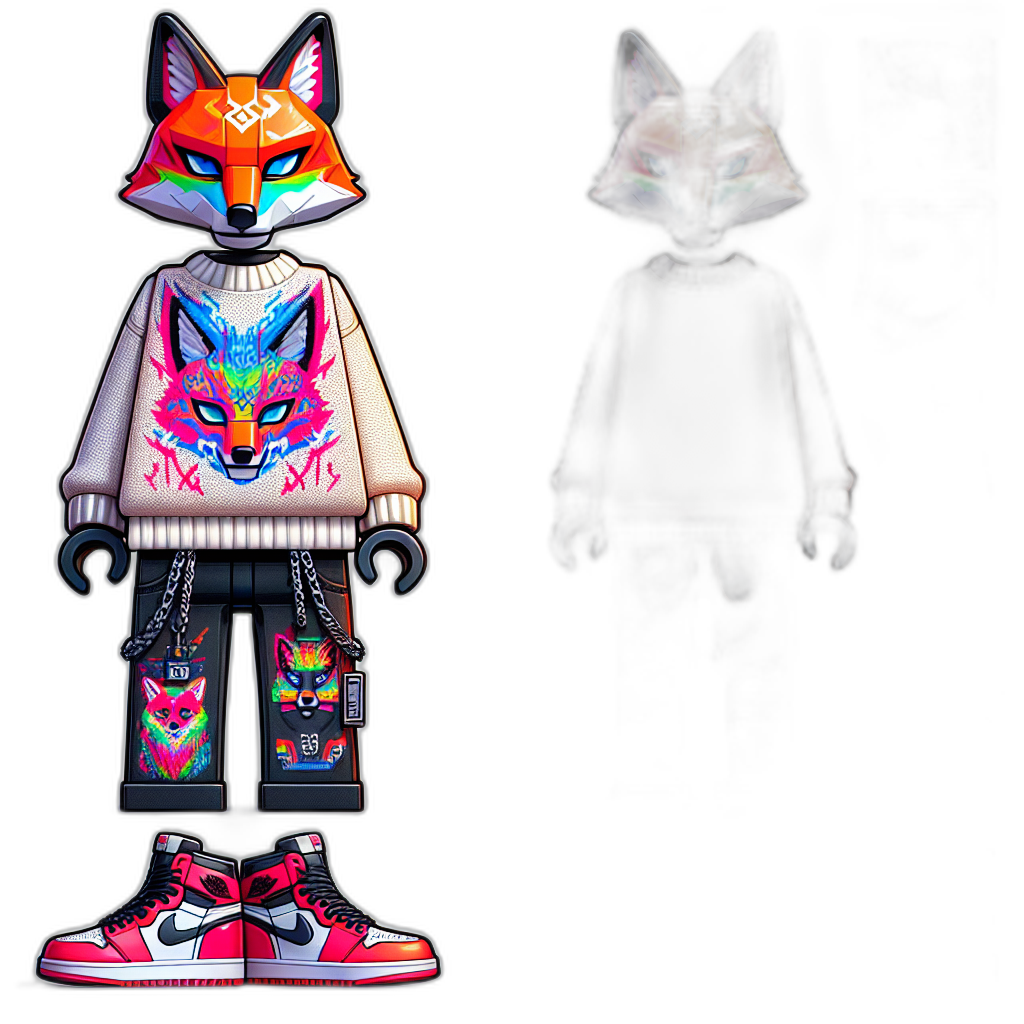
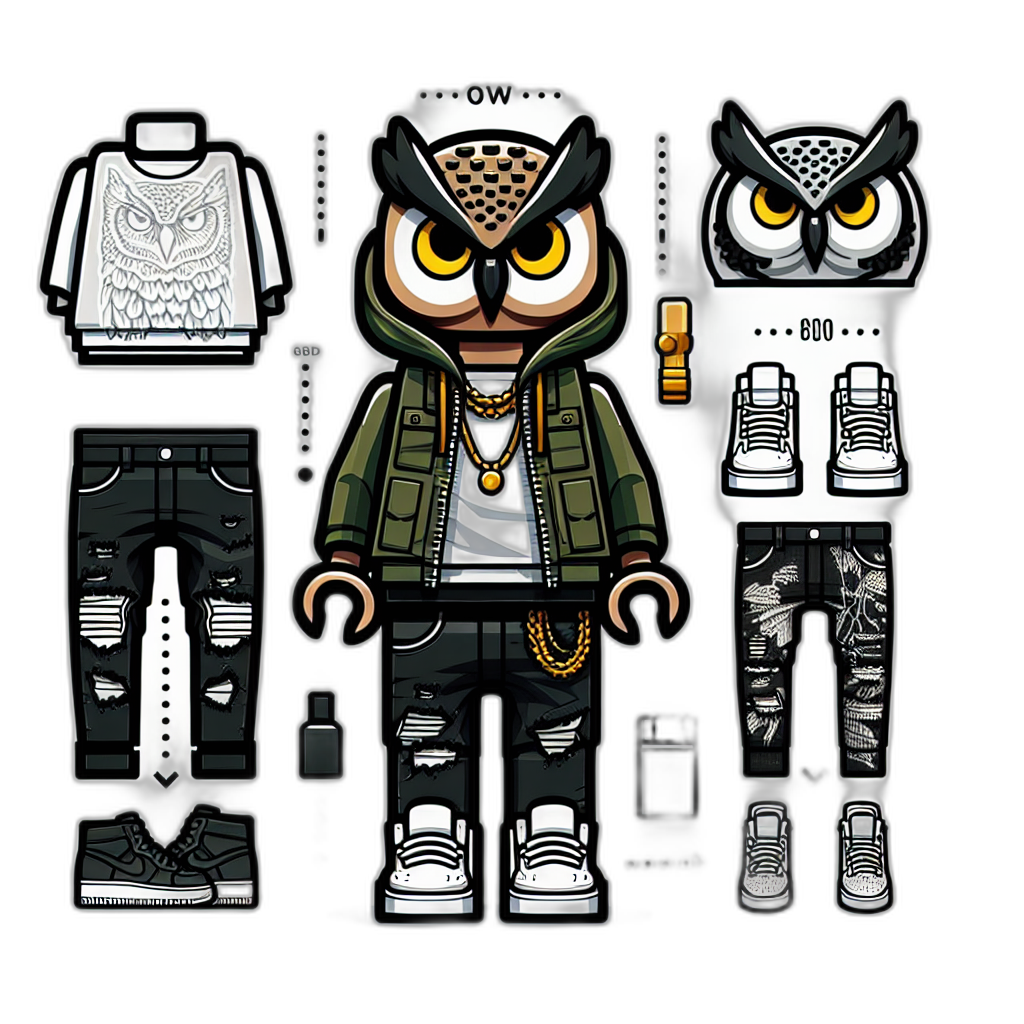
prompt edits

diff --git a/controllers/openaiController.js b/controllers/openaiController.js
@@ -10,6 +10,8 @@ const openai = new OpenAI({
 const generateCreativePrompt = async (req) => { // Removed res, as we are returning the value instead of sending response
     console.log("Received body:", req.body);
     const genreObjects = req.body.genres;
+    const artistObjects = req.body.artists;
+    console.log(genreObjects);
 
     if (!Array.isArray(genreObjects)) {
         console.error("Genres is undefined or not an array");
@@ -17,23 +19,27 @@ const generateCreativePrompt = async (req) => { // Removed res, as we are return
     }
 
     const genres = genreObjects.map(g => g.genre);
-    let prompt = `Optimize your answer for feeding into dall-e-3. Keep your response under 75 words. Using ${genres.join(", ")} and information from latest internet fashion trends (search for these) and your knowledge of good Dall-E prompts, fill out the following template:
+    const artists = artistObjects.map(a => a.name);
+    //console.log(genres);
+    let prompt = `Optimize your answer for feeding into dall-e-3. Keep your response under 75 words. Using ${genres.join(", ")} and ${artists.join(", ")} and information from latest internet fashion trends (search for these) and your knowledge of good Dall-E prompts, fill out the following template. If you are to mention an artist, use a "-like" (e.g. Drake-like hoodie):
 
     Head: the head must be that of an animal
-    Top: can be any type of shirt, jacket, or sweater
-    Bottom: can be any type of shorts, jeans, leggings, skirt, etc.
-    Shoes: can be any type of shoe
-    Socks: can be any type of sock
+    Top: can be any type of shirt, jacket, or sweater, inspired by artist or genre
+    Bottom: can be any type of shorts, jeans, leggings, skirt, etc., inspired only by genre
+    Shoes: can be any type of shoe, inspired by artist
+    Accessory: sunglasses, chain, hat, etc. 
 
-    Ensure that the clothing and style reflect the vibrant and diverse nature of the genres.
+    Ensure that the clothing and style reflect the vibrant and diverse nature of the genres,
+    and that each item is a clear reflection of a genre, and their styles don't overlap.
     
     Example: 
     Head: lion (try to gather from their taste what this might be)
     Top: black metallica band tee (because they listen to metallica the most)
     Bottom: black leather pants (they love rock)
     Shoes: white converse
-    Socks: white socks
+    Accessory: Anita Max Wynn hat (because they listen to Drake)
     
+    If you are going to mention a specific artist inspired design, describe the design instead of writing the artist's name and "-like" (for example, "Yeezy sweatshirt with GAP on it" instead of "Kanye-like hoodie")
     Remember to be specific but simple like above. You can mention specific artists, but not more than 2. Mention artists earlier in your answer for each category.`;
 
     try {
@@ -67,7 +73,7 @@ const generateRhythmoji = async (creativeDescription) => {
     try {
         const imageResponse = await openai.images.generate({
             model: 'dall-e-3',
-            prompt: `Your role is to design a single lego character standing in a straight-on orientation using "${creativeDescription}". Focus on the artists and brands mentioned, make them evident. White background. Ensure good design.`, 
+            prompt: `Your role is to design a single lego character standing direclty facing us using "${creativeDescription}". Focus on the artists and brands mentioned, make them evident, and make sure each part's styles don't overlap. White background. Ensure good design.`, 
             n: 1,
             size: '1024x1024',
         });

diff --git a/app.js b/app.js
@@ -66,6 +66,7 @@ app.get('/callback', (req, res) => {
         let genres = topArtists.flatMap(artist => artist.genres);
         let topGenres = getTopItems(genres, 10);
 
+        req.session.topArtists = topArtists;
         req.session.topGenres = topGenres;
         res.redirect('/display');
         
@@ -84,13 +85,15 @@ app.get('/callback', (req, res) => {
 app.get('/display', async (req, res) => {
     try {
         const genres = req.session.topGenres;
+        const artists = req.session.topArtists;
 
         if (!genres || !Array.isArray(genres)) {
             return res.status(400).send("Genres must be provided as an array.");
         }
 
         // Ensure the structure matches what generateCreativePrompt expects
-        req.body = { genres: genres };
+        req.body = { genres: genres, artists: artists };
+
 
         const creativeDescription = await generateCreativePrompt(req);
         const imageUrl = await generateRhythmoji(creativeDescription);
